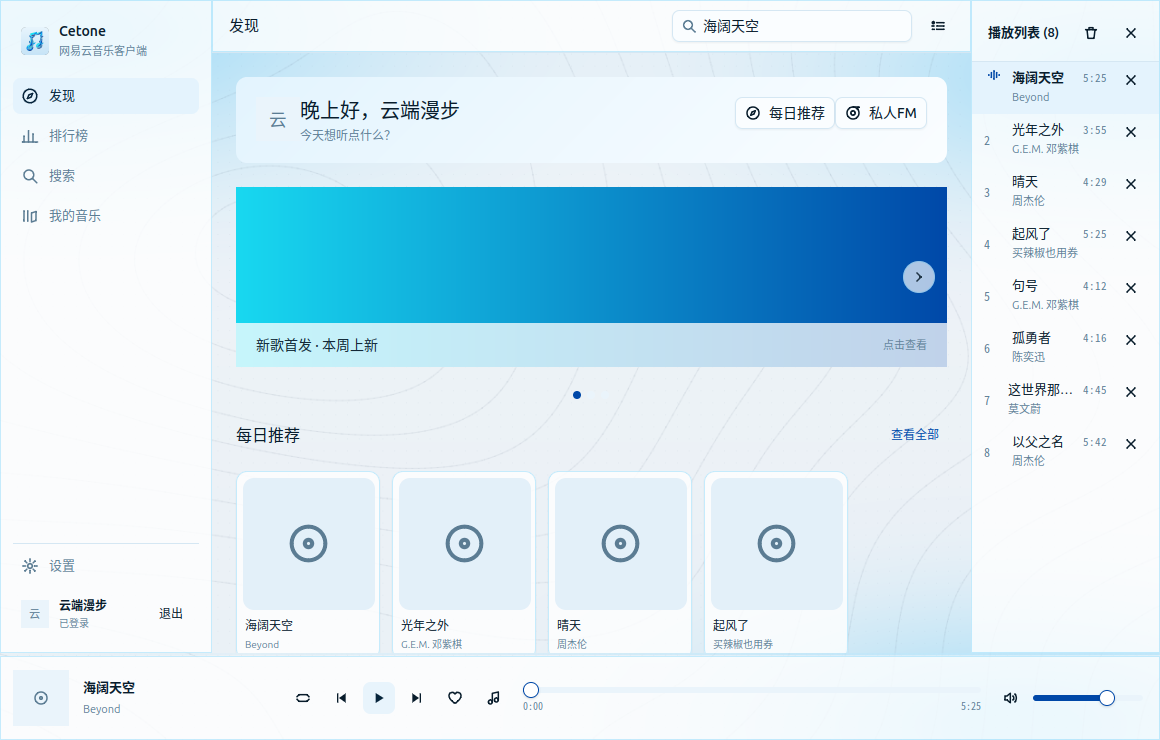
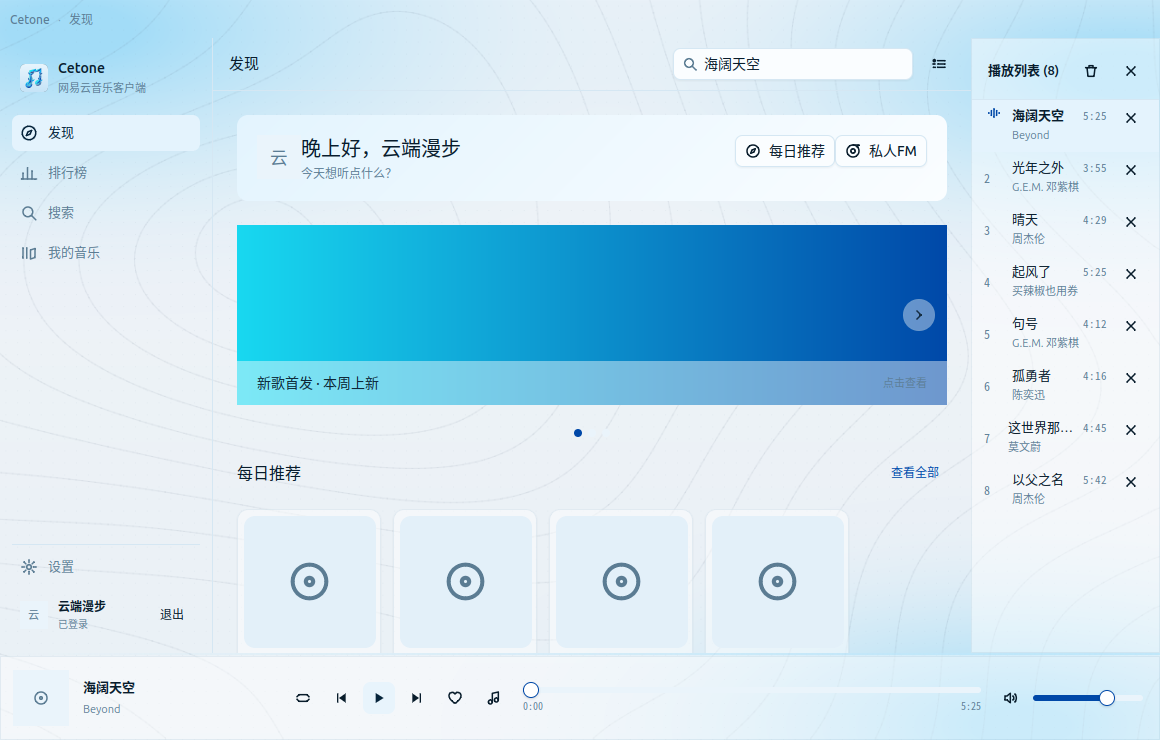
去掉面板割裂感，窗口改用自己的标题栏
用户反馈亮色下侧栏/页头/播放栏三块白底带蓝边，和主背景冲突；系统标题栏也
和整体风格不搭。

标题栏：改用 WindowCustomTitlebar，页面自己画 38px 的条（应用名 · 页面名），
海一直延伸到窗口顶边。Viva 负责在有/无边框差的平台上绘制最小化/最大化/关闭，
样式函数每次重绘都会读当前主题，所以切主题时按钮颜色跟着变。
窗口的 ClearColor 也设成海的底色，避免首帧闪一下别的颜色。

真相核验（真实窗口，不是推断）：窗口的 _MOTIF_WM_HINTS = 0x2,0x0,0x0,0x0,0x0
表示去掉 WM 装饰，且没有 _NET_FRAME_EXTENTS，即确实没有系统边框。

割裂感的根因不是边框太蓝，而是**面板盖住了海**：
- glass() 的 alpha 从 0.70/0.80 降到 0.55/0.46，纹理能透出来
- glassBorder() 从品牌色的 0.16/0.35 降到 0.10/0.16（亮色用中性灰蓝而非品牌蓝）
- 侧栏与页头**不再画底色**，只留一条发丝线分界；只有播放栏还是控制面板
- 设置卡片加 ShadowXS/SM：浅色面板在浅色海上要靠投影分离，否则描边必须很重

把窗口配置抽成 WindowConfig() 以便测试：之前测试自己拼 config，看不出
Run 到底开了什么窗口——这正是上次 OnWake 那类问题的来源。新增两条测试：
窗口模式是自定义标题栏、按钮样式随外观变化、ClearColor 非零。

diff --git a/internal/app/page.go b/internal/app/page.go
@@ -22,12 +22,7 @@ func Run(base app.Config, paths store.Paths) error {
 	}
 	// The desktop shows this picture on the taskbar and in Alt+Tab; without it
 	// the window wears the framework's default.
-	// The icon follows the appearance: the dark tile on a dark taskbar, the pale
-	// one on a pale taskbar.
-	a.applyTheme()
-	if icon, err := a.windowIcon(); err == nil {
-		base.Icon = icon
-	}
+	base = a.WindowConfig(base)
 	return app.RunApplication(func(application *app.Application) error {
 		_, config := a.Page(base)
 		a.application = application
@@ -123,8 +118,10 @@ func (a *App) page(c ui.C) {
 		// as elements that every hover would re-tessellate.
 		ui.Image(c, a.oceanBitmap()).Fill()
 		ui.Column(c).Fill().Children(func() {
+			a.titlebar(c)
 			ui.Row(c).FillWidth().FillHeight().Children(func() {
 				a.sidebar(c)
+				ui.Divider(c)
 				ui.Column(c).Grow(1).FillHeight().Children(func() {
 					a.header(c)
 					ui.Divider(c)
@@ -161,8 +158,10 @@ func (a *App) sidebar(c ui.C) {
 	theme := c.Theme()
 	// The rail keeps its width: the content beside it is what gives way when a
 	// page's cards are wide.
+	// The rail is not a plate: the sea runs under it, and a hairline at its edge
+	// is what separates it from the content. A second translucent panel here
+	// would put a lighter rectangle on the sea for no reason.
 	rail := ui.Column(c).Width(212).MinWidth(212).Shrink(0).FillHeight().Pad(12).Gap(4)
-	rail = glassPanel(rail, *theme)
 	rail.Children(func() {
 		ui.Row(c).Gap(10).Items(ui.Center).PadSides(8, 8, 14, 8).Children(func() {
 			// The application's own icon, decoded once and kept: the rail is
@@ -242,9 +241,8 @@ func (a *App) userBadge(c ui.C) {
 // header is the bar above the content: back, the page title, search and the
 // queue toggle.
 func (a *App) header(c ui.C) {
-	theme := c.Theme()
+	// The header is chrome over the same sea, not a band of its own.
 	header := ui.Row(c).FillWidth().Height(52).PadX(16).Gap(10).Items(ui.Center)
-	header = glassPanel(header, *theme)
 	header.Children(func() {
 		if len(a.nav) > 1 {
 			back := ui.Button(c, "").Icon(iconBack).IconOnly().Ghost().Tooltip("返回")
@@ -342,8 +340,11 @@ func (a *App) playerBar(c ui.C) {
 	song, hasSong := a.current()
 	busy := snapshot.Status == player.StatusBuffering
 
+	// The player bar is a control surface, so it stays a panel; it is the one
+	// place a translucent plate is doing work rather than decorating.
 	bar := ui.Row(c).FillWidth().Height(84).PadSides(12, 16, 12, 12).Gap(14).Items(ui.Center)
-	bar = glassPanel(bar, *theme)
+	bar.Background(glass(*theme))
+	bar.Border(1, glassBorder(*theme))
 	bar.Children(func() {
 		// The cover and the title open the lyrics page, as a click on the art
 		// does in the GTK client.
@@ -555,4 +556,26 @@ func humanCount(n int64) string {
 		return fmt.Sprintf("%.1f万", float64(n)/10000)
 	}
 	return fmt.Sprintf("%d", n)
+}
+
+// WindowConfig is the window's own decoration: the icon of the current
+// appearance, and a title bar the page paints so the sea reaches the top edge.
+//
+// It is a method so a test can check what Run would open: a window that fell back
+// to the desktop's title bar is exactly the seam this is here to remove, and a
+// test that built its own config would not see it.
+func (a *App) WindowConfig(base app.Config) app.Config {
+	// The icon follows the appearance: the dark tile on a dark taskbar, the pale
+	// one on a pale taskbar.
+	a.applyTheme()
+	if icon, err := a.windowIcon(); err == nil {
+		base.Icon = icon
+	}
+	base.WindowMode = app.WindowCustomTitlebar
+	base.TitlebarHeight = titlebarHeight
+	base.ClearColor = a.clearColor()
+	// The buttons Viva draws in the strip are styled by a function, because the
+	// config asks it at every paint: they follow a theme change.
+	base.WindowControls = a.windowControlsStyle
+	return base
 }

diff --git a/internal/app/titlebar.go b/internal/app/titlebar.go
@@ -1,0 +1,83 @@
+package app
+
+// The window's own title bar.
+//
+// The desktop's title bar is drawn by the window manager in its own colors, and
+// a window with a dark sea behind it framed in a light grey strip is two designs
+// on one screen. A custom title bar keeps the traffic lights and lets the page
+// paint the strip, so the window is one surface from its top edge to its bottom.
+
+import (
+	"github.com/vivaui/viva/app"
+	"github.com/vivaui/viva/gfx"
+	"github.com/vivaui/viva/ui"
+)
+
+const (
+	// titlebarHeight is the strip the traffic lights and window buttons sit in.
+	titlebarHeight = 38
+)
+
+// titlebar is the strip at the top of the window: the application's mark, the
+// page's name, and the space the window buttons need. Dragging it moves the
+// window; a double click zooms it (both are MovesWindow's).
+func (a *App) titlebar(c ui.C) {
+	theme := c.Theme()
+	leading, trailing := app.TitlebarInsets()
+	top := a.top()
+
+	bar := ui.Row(c).FillWidth().Height(titlebarHeight).Items(ui.Center).MovesWindow()
+	// The strip is the top of the sea: the same texture shows through it, with a
+	// hairline under it instead of a frame around it.
+	bar.PadLeft(trailingFor(leading, trailing)).PadRight(trailing)
+	bar.Children(func() {
+		ui.Row(c).Gap(8).Items(ui.Center).Children(func() {
+			ui.Text(c, "Cetone").FontSize(12).Weight(gfx.WeightMedium).Color(theme.MutedForeground)
+			ui.Text(c, "·").FontSize(12).Color(theme.MutedForeground).Opacity(0.6)
+			ui.Text(c, top.title).FontSize(12).Color(theme.MutedForeground)
+		})
+	})
+}
+
+// trailingFor is the leading inset: the strip starts at the traffic lights.
+func trailingFor(leading, _ float32) float32 {
+	if leading > 0 {
+		return leading
+	}
+	return 10
+}
+
+// windowControlsStyle is how Viva draws the minimize, maximize and close buttons
+// on Linux and Windows. It is a function because the config calls it at every
+// paint, which is what makes the buttons follow a theme change.
+func (a *App) windowControlsStyle() app.WindowControlsStyle {
+	theme := a.theme
+	dark := isDark(theme)
+	foreground := gfx.RGB24(0x5B7C93)
+	hover := theme.Muted
+	if dark {
+		foreground = gfx.RGB24(0x8FB3CB)
+	}
+	return app.WindowControlsStyle{
+		Foreground:      foreground,
+		Hover:           hover,
+		Pressed:         theme.Accent,
+		Close:           gfx.RGB24(0xD92B45),
+		CloseForeground: gfx.RGB24(0xFFFFFF),
+		Minimize:        "最小化",
+		Maximize:        "最大化",
+		Restore:         "还原",
+		CloseName:       "关闭",
+	}
+}
+
+// clearColor is the window's own background, behind the page's first frame: the
+// sea's base, so the window never flashes a colour the application does not use.
+func (a *App) clearColor() app.Color {
+	// app.Color is linear RGBA in float64; the theme's colors are sRGB in float32.
+	c := gfx.RGB24(0xF0F4F8)
+	if isDark(a.theme) {
+		c = gfx.RGB24(0x05080E)
+	}
+	return app.Color{Red: float64(c.Red), Green: float64(c.Green), Blue: float64(c.Blue), Alpha: 1}
+}

diff --git a/internal/app/theme.go b/internal/app/theme.go
@@ -85,23 +85,29 @@ func contrast(a, b gfx.Color) float64 {
 	return (la + 0.05) / (lb + 0.05)
 }
 
-// glass is a translucent panel over the ocean: the card color at a partial
-// alpha, with a 1px translucent border of the accent color. The texture shows
-// through it, which is what makes the window read as one surface rather than as
-// panels stacked on a color.
+// glass is a translucent panel over the ocean. The alpha is low enough that the
+// texture reads through it: a panel that hides the sea behind it turns the window
+// into three white plates on a picture, which is exactly the seam this is here to
+// avoid. A little of the card color is mixed in so text on a panel has a steadier
+// surface than the texture alone.
 func glass(theme gfx.Theme) gfx.Color {
 	if isDark(theme) {
-		return theme.Card.WithAlpha(0.70)
+		return gfx.RGB24(0x0B1A26).WithAlpha(0.55)
 	}
-	return theme.Card.WithAlpha(0.80)
+	return gfx.RGB24(0xFFFFFF).WithAlpha(0.46)
 }
 
-// glassBorder is the hairline around a glass panel.
+// glassBorder is the hairline around a glass panel. It is the accent color at a
+// low alpha: a frame in the accent color, drawn at full strength, is what makes a
+// panel look pasted on instead of part of the surface.
 func glassBorder(theme gfx.Theme) gfx.Color {
 	if isDark(theme) {
-		return gfx.RGB24(colorBlue).WithAlpha(0.22)
+		return gfx.RGB24(colorBlue).WithAlpha(0.10)
 	}
-	return gfx.RGB24(0x38BDF8).WithAlpha(0.28)
+	// A pale panel on a pale sea needs almost no outline: the shadow and the
+	// change of tone already separate it. A line any stronger reads as a box
+	// drawn around the content.
+	return gfx.RGB24(0x7FA8C4).WithAlpha(0.16)
 }
 
 // glassPanel dresses a box as a glass card.

diff --git a/internal/app/titlebar_test.go b/internal/app/titlebar_test.go
@@ -1,0 +1,54 @@
+package app
+
+import (
+	"testing"
+
+	"github.com/vivaui/viva/app"
+)
+
+// The title bar exists in the page and the window mode is the custom one: the
+// desktop's own grey strip is what the user asked to have blended in.
+func TestTheWindowPaintsItsOwnTitlebar(t *testing.T) {
+	a := headlessModel(t)
+	page, _ := a.Page(app.Config{Title: "cetone", Width: 1200, Height: 800})
+	if page == nil {
+		t.Fatal("no page")
+	}
+	// The config Run builds sets these; a test that only used Page would miss
+	// them, so the values are checked where they are decided.
+	cfg := a.WindowConfig(app.Config{Title: "cetone", Width: 1200, Height: 800})
+	if cfg.WindowMode != app.WindowCustomTitlebar {
+		t.Fatalf("window mode is %v", cfg.WindowMode)
+	}
+	if cfg.TitlebarHeight <= 0 {
+		t.Fatal("the title bar has no height")
+	}
+	if cfg.WindowControls == nil {
+		t.Fatal("the window buttons are not styled")
+	}
+	style := cfg.WindowControls()
+	if style.Foreground.Alpha == 0 {
+		t.Fatal("the window buttons have no colour")
+	}
+	if style.CloseName == "" || style.Minimize == "" {
+		t.Fatal("the window buttons have no accessible names")
+	}
+}
+
+// The buttons follow the appearance, because the config calls the style at every
+// paint.
+func TestTheWindowControlsFollowTheAppearance(t *testing.T) {
+	a := headlessModel(t)
+	a.config.Theme = "dark"
+	a.applyTheme()
+	dark := a.windowControlsStyle()
+	a.config.Theme = "light"
+	a.applyTheme()
+	light := a.windowControlsStyle()
+	if dark.Foreground == light.Foreground {
+		t.Fatal("the buttons use one colour in both appearances")
+	}
+	if a.clearColor() == (app.Color{}) {
+		t.Fatal("the window has no clear colour")
+	}
+}

diff --git a/internal/app/page_mine.go b/internal/app/page_mine.go
@@ -331,8 +331,17 @@ func (a *App) trayProblemText() string {
 // light theme, so the line is what makes the group read as a group.
 func (a *App) settingsCard(c ui.C, title string, body func()) {
 	theme := c.Theme()
-	ui.Column(c).FillWidth().Pad(16).Gap(12).Radius(theme.Metrics.RadiusSurface).
-		Background(glass(*theme)).Border(1, glassBorder(*theme)).Children(func() {
+	card := ui.Column(c).FillWidth().Pad(16).Gap(12).Radius(theme.Metrics.RadiusSurface)
+	card.Background(glass(*theme))
+	card.Border(1, glassBorder(*theme))
+	// A soft shadow under a pale panel is what separates it from a pale sea; the
+	// line alone would be the only edge and so had to be heavy.
+	if isDark(*theme) {
+		card.Shadow(gfx.ShadowSM)
+	} else {
+		card.Shadow(gfx.ShadowXS)
+	}
+	card.Children(func() {
 		ui.Text(c, title).FontSize(14).Weight(gfx.WeightMedium)
 		body()
 	})
